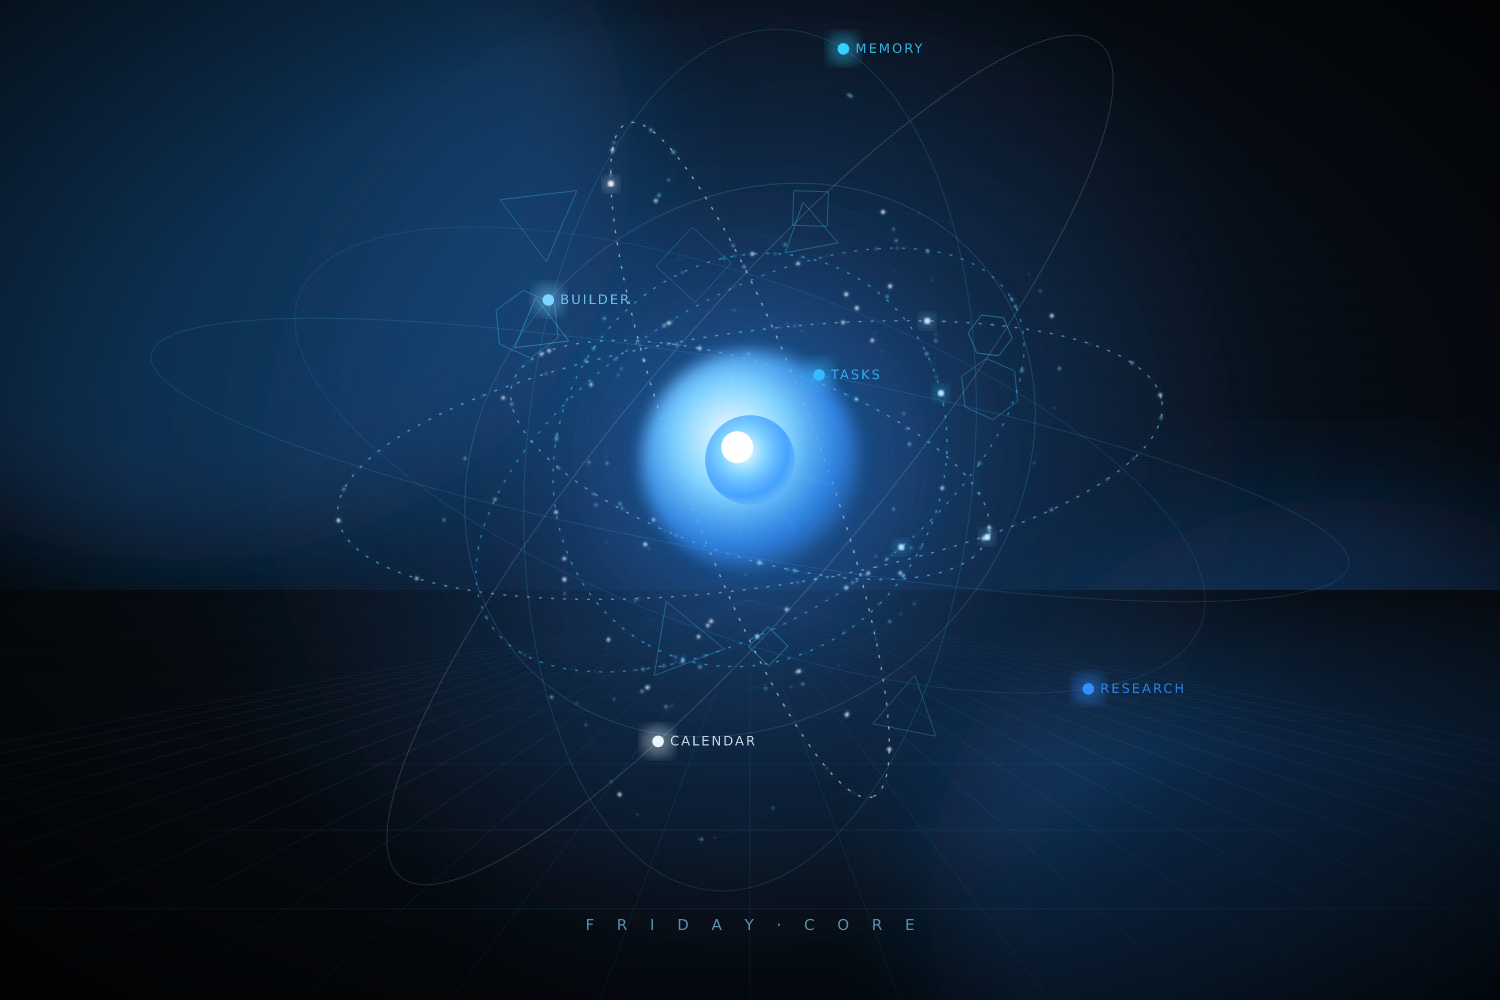
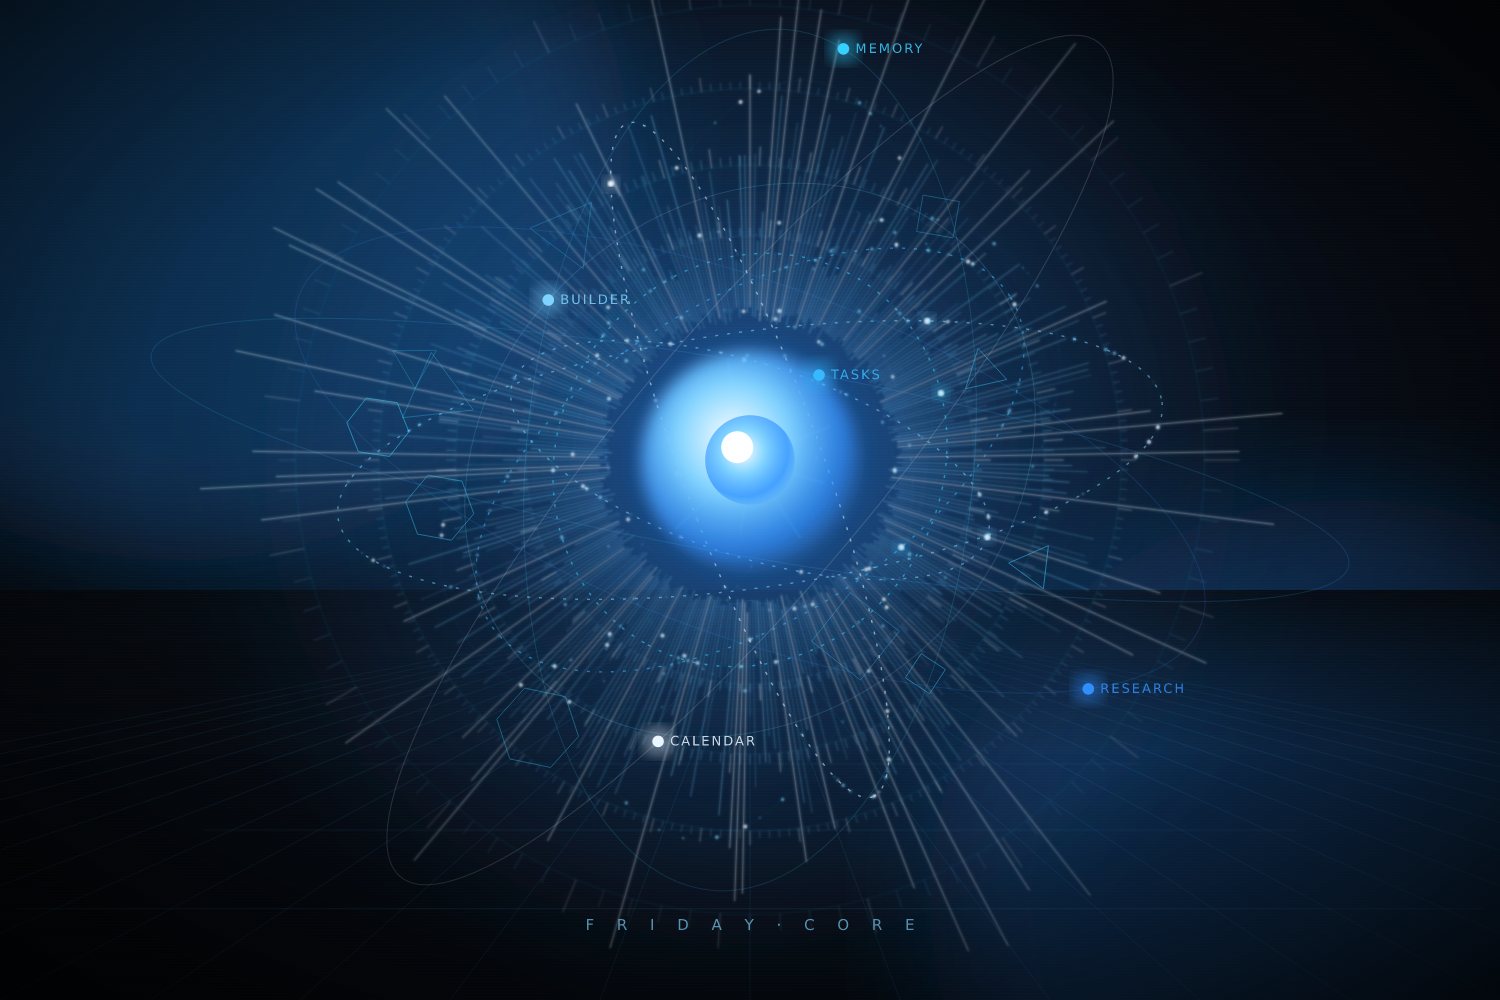
Core visual overhaul — the computational cathedral
Address 'looks kiddish': replace the soft-orb read with an engineered-star iris
matching the design reference.
- New Filaments layer: 360 camera-facing radial spokes (bright heart → dark rim),
  concentric measurement rings with tick marks, faint binding circles, and a
  white-hot heart sprite. Counter-rotating, brightness driven by the core state.
- Denser data streams (2600 → 3600 motes).
- Refresh preview posters to the new dense radial core.

diff --git a/apps/desktop/src/sphere/Filaments.tsx b/apps/desktop/src/sphere/Filaments.tsx
@@ -1,0 +1,173 @@
+import { useMemo, useRef } from "react";
+import { useFrame, useThree } from "@react-three/fiber";
+import * as THREE from "three";
+import { drive } from "./drive";
+
+const WHITE = new THREE.Color("#ffffff");
+
+/**
+ * Layer 1.5 — the computational cathedral. A dense, camera-facing radial
+ * structure: hundreds of fine filament spokes, concentric measurement rings and
+ * tick marks, and a white-hot heart. This is what makes the core read as an
+ * engineered star / arc-reactor iris rather than a soft orb.
+ */
+
+function lineGeom(pos: number[], col: number[]): THREE.BufferGeometry {
+  const g = new THREE.BufferGeometry();
+  g.setAttribute("position", new THREE.Float32BufferAttribute(pos, 3));
+  g.setAttribute("color", new THREE.Float32BufferAttribute(col, 3));
+  return g;
+}
+
+/** Radial spokes — fine filaments from the heart outward, additive sunburst. */
+function buildSpokes(): THREE.BufferGeometry {
+  const N = 360;
+  const pos: number[] = [];
+  const col: number[] = [];
+  for (let i = 0; i < N; i++) {
+    const a = (i / N) * Math.PI * 2;
+    const r0 = 0.43 + Math.random() * 0.05;
+    const long = Math.random() > 0.85;
+    const r1 = long ? 1.18 + Math.random() * 0.55 : 0.6 + Math.random() * 0.55;
+    const ca = Math.cos(a), sa = Math.sin(a);
+    pos.push(ca * r0, sa * r0, 0, ca * r1, sa * r1, 0);
+    const b = long ? 0.9 + Math.random() * 0.3 : 0.28 + Math.random() * 0.5;
+    col.push(b, b, b, 0.015, 0.015, 0.015); // bright at heart → dark at rim
+  }
+  return lineGeom(pos, col);
+}
+
+/** Concentric measurement rings made of ticks (every 5th tick longer/brighter). */
+function buildTicks(): THREE.BufferGeometry {
+  const rings = [
+    { r: 0.7, n: 144, len: 0.026, b: 0.5 },
+    { r: 0.92, n: 192, len: 0.03, b: 0.42 },
+    { r: 1.16, n: 240, len: 0.022, b: 0.32 },
+    { r: 1.42, n: 96, len: 0.055, b: 0.24 },
+  ];
+  const pos: number[] = [];
+  const col: number[] = [];
+  for (const ring of rings) {
+    for (let i = 0; i < ring.n; i++) {
+      const a = (i / ring.n) * Math.PI * 2;
+      const ca = Math.cos(a), sa = Math.sin(a);
+      const major = i % 5 === 0;
+      const r0 = ring.r;
+      const r1 = ring.r + ring.len * (major ? 2 : 1);
+      pos.push(ca * r0, sa * r0, 0, ca * r1, sa * r1, 0);
+      const b = ring.b * (major ? 1.5 : 1);
+      col.push(b, b, b, b, b, b);
+    }
+  }
+  return lineGeom(pos, col);
+}
+
+/** Faint full circles binding the rings together. */
+function buildCircles(): THREE.BufferGeometry {
+  const radii = [0.7, 0.92, 1.16, 1.42];
+  const seg = 220;
+  const pos: number[] = [];
+  const col: number[] = [];
+  for (const r of radii) {
+    for (let i = 0; i < seg; i++) {
+      const a0 = (i / seg) * Math.PI * 2;
+      const a1 = ((i + 1) / seg) * Math.PI * 2;
+      pos.push(Math.cos(a0) * r, Math.sin(a0) * r, 0, Math.cos(a1) * r, Math.sin(a1) * r, 0);
+      const b = 0.14;
+      col.push(b, b, b, b, b, b);
+    }
+  }
+  return lineGeom(pos, col);
+}
+
+/** A radial-gradient sprite texture for the white-hot heart. */
+function heartTexture(): THREE.Texture {
+  const s = 128;
+  const c = document.createElement("canvas");
+  c.width = c.height = s;
+  const ctx = c.getContext("2d")!;
+  const g = ctx.createRadialGradient(s / 2, s / 2, 0, s / 2, s / 2, s / 2);
+  g.addColorStop(0, "rgba(255,255,255,1)");
+  g.addColorStop(0.25, "rgba(220,242,255,0.9)");
+  g.addColorStop(0.55, "rgba(120,200,255,0.35)");
+  g.addColorStop(1, "rgba(40,120,220,0)");
+  ctx.fillStyle = g;
+  ctx.fillRect(0, 0, s, s);
+  const tex = new THREE.CanvasTexture(c);
+  tex.needsUpdate = true;
+  return tex;
+}
+
+export function Filaments() {
+  const billboard = useRef<THREE.Group>(null);
+  const spinA = useRef<THREE.Group>(null);
+  const spinB = useRef<THREE.Group>(null);
+  const spokeMat = useRef<THREE.LineBasicMaterial>(null);
+  const tickMat = useRef<THREE.LineBasicMaterial>(null);
+  const circleMat = useRef<THREE.LineBasicMaterial>(null);
+  const heartMat = useRef<THREE.SpriteMaterial>(null);
+  const heartSprite = useRef<THREE.Sprite>(null);
+  const { camera } = useThree();
+
+  const spokes = useMemo(buildSpokes, []);
+  const ticks = useMemo(buildTicks, []);
+  const circles = useMemo(buildCircles, []);
+  const heart = useMemo(heartTexture, []);
+  const tint = useMemo(() => new THREE.Color(), []);
+
+  useFrame((_, dt) => {
+    const d = Math.min(dt, 0.05);
+    if (billboard.current) billboard.current.quaternion.copy(camera.quaternion); // face camera
+    if (spinA.current) spinA.current.rotation.z += d * (0.04 + drive.ringSpeed * 0.12);
+    if (spinB.current) spinB.current.rotation.z -= d * (0.03 + drive.ringSpeed * 0.08);
+
+    tint.copy(drive.glow);
+    const bright = 0.5 + drive.activity * 0.85 + drive.alert * 0.7 + drive.audio * 0.35;
+    if (spokeMat.current) {
+      spokeMat.current.color.copy(tint);
+      spokeMat.current.opacity = Math.min(1, 0.55 + bright * 0.5);
+    }
+    if (tickMat.current) {
+      tickMat.current.color.copy(tint);
+      tickMat.current.opacity = Math.min(1, 0.5 + bright * 0.4);
+    }
+    if (circleMat.current) {
+      circleMat.current.color.copy(tint);
+      circleMat.current.opacity = 0.35 + bright * 0.25;
+    }
+    if (heartMat.current) {
+      heartMat.current.color.copy(drive.color).lerp(WHITE, 0.5);
+      heartMat.current.opacity = Math.min(1, 0.7 + drive.activity * 0.4);
+    }
+    if (heartSprite.current) {
+      const s = 1.05 + drive.breathe * 1.2 + drive.audio * 0.25 + drive.alert * 0.2;
+      const cur = heartSprite.current.scale.x || 1;
+      heartSprite.current.scale.setScalar(THREE.MathUtils.damp(cur, s, 7, d));
+    }
+  });
+
+  return (
+    <group ref={billboard} renderOrder={1}>
+      <group ref={spinA}>
+        <lineSegments geometry={spokes}>
+          <lineBasicMaterial ref={spokeMat} vertexColors transparent depthWrite={false}
+            blending={THREE.AdditiveBlending} opacity={0.9} />
+        </lineSegments>
+        <lineSegments geometry={circles}>
+          <lineBasicMaterial ref={circleMat} vertexColors transparent depthWrite={false}
+            blending={THREE.AdditiveBlending} opacity={0.5} />
+        </lineSegments>
+      </group>
+      <group ref={spinB}>
+        <lineSegments geometry={ticks}>
+          <lineBasicMaterial ref={tickMat} vertexColors transparent depthWrite={false}
+            blending={THREE.AdditiveBlending} opacity={0.8} />
+        </lineSegments>
+      </group>
+      <sprite ref={heartSprite} scale={1.1}>
+        <spriteMaterial ref={heartMat} map={heart} transparent depthWrite={false}
+          blending={THREE.AdditiveBlending} opacity={0.85} />
+      </sprite>
+    </group>
+  );
+}

diff --git a/apps/desktop/src/sphere/Core.tsx b/apps/desktop/src/sphere/Core.tsx
@@ -4,6 +4,7 @@ import * as THREE from "three";
 import { updateDrive, drive } from "./drive";
 import { atmoVertex, atmoFragment } from "./shaders";
 import { CoreReactor } from "./CoreReactor";
+import { Filaments } from "./Filaments";
 import { Rings } from "./Rings";
 import { DataStreams } from "./DataStreams";
 import { HoloGeometry } from "./HoloGeometry";
@@ -45,6 +46,7 @@ export function Core() {
       <Driver />
       <Atmosphere />
       <CoreReactor />
+      <Filaments />
       <Rings />
       <DataStreams />
       <HoloGeometry />

diff --git a/apps/desktop/src/sphere/DataStreams.tsx b/apps/desktop/src/sphere/DataStreams.tsx
@@ -4,7 +4,7 @@ import * as THREE from "three";
 import { dataVertex, dataFragment } from "./shaders";
 import { drive } from "./drive";
 
-const COUNT = 2600;
+const COUNT = 3600;
 
 /** Layer 3 — data streams. Thousands of motes travelling orbits: light highways. */
 export function DataStreams() {